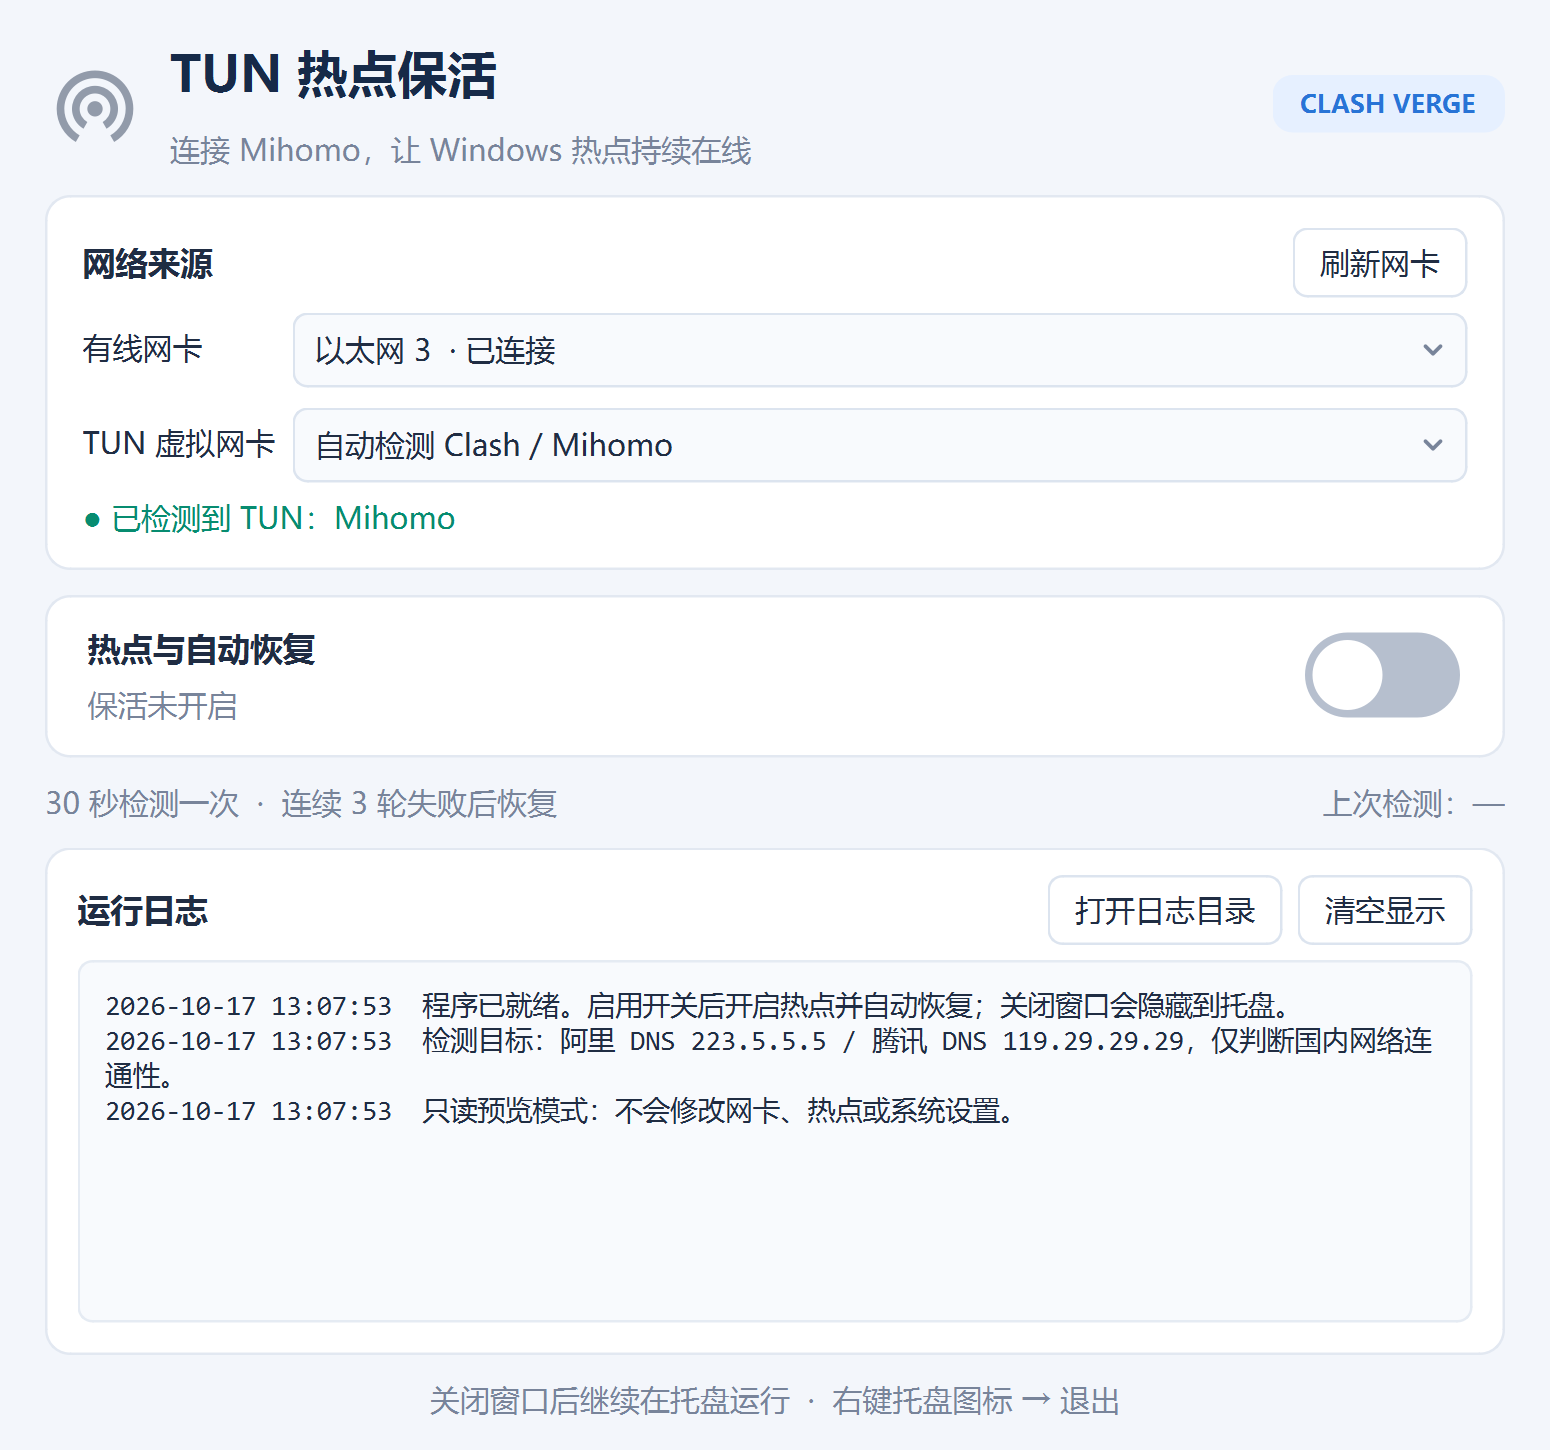
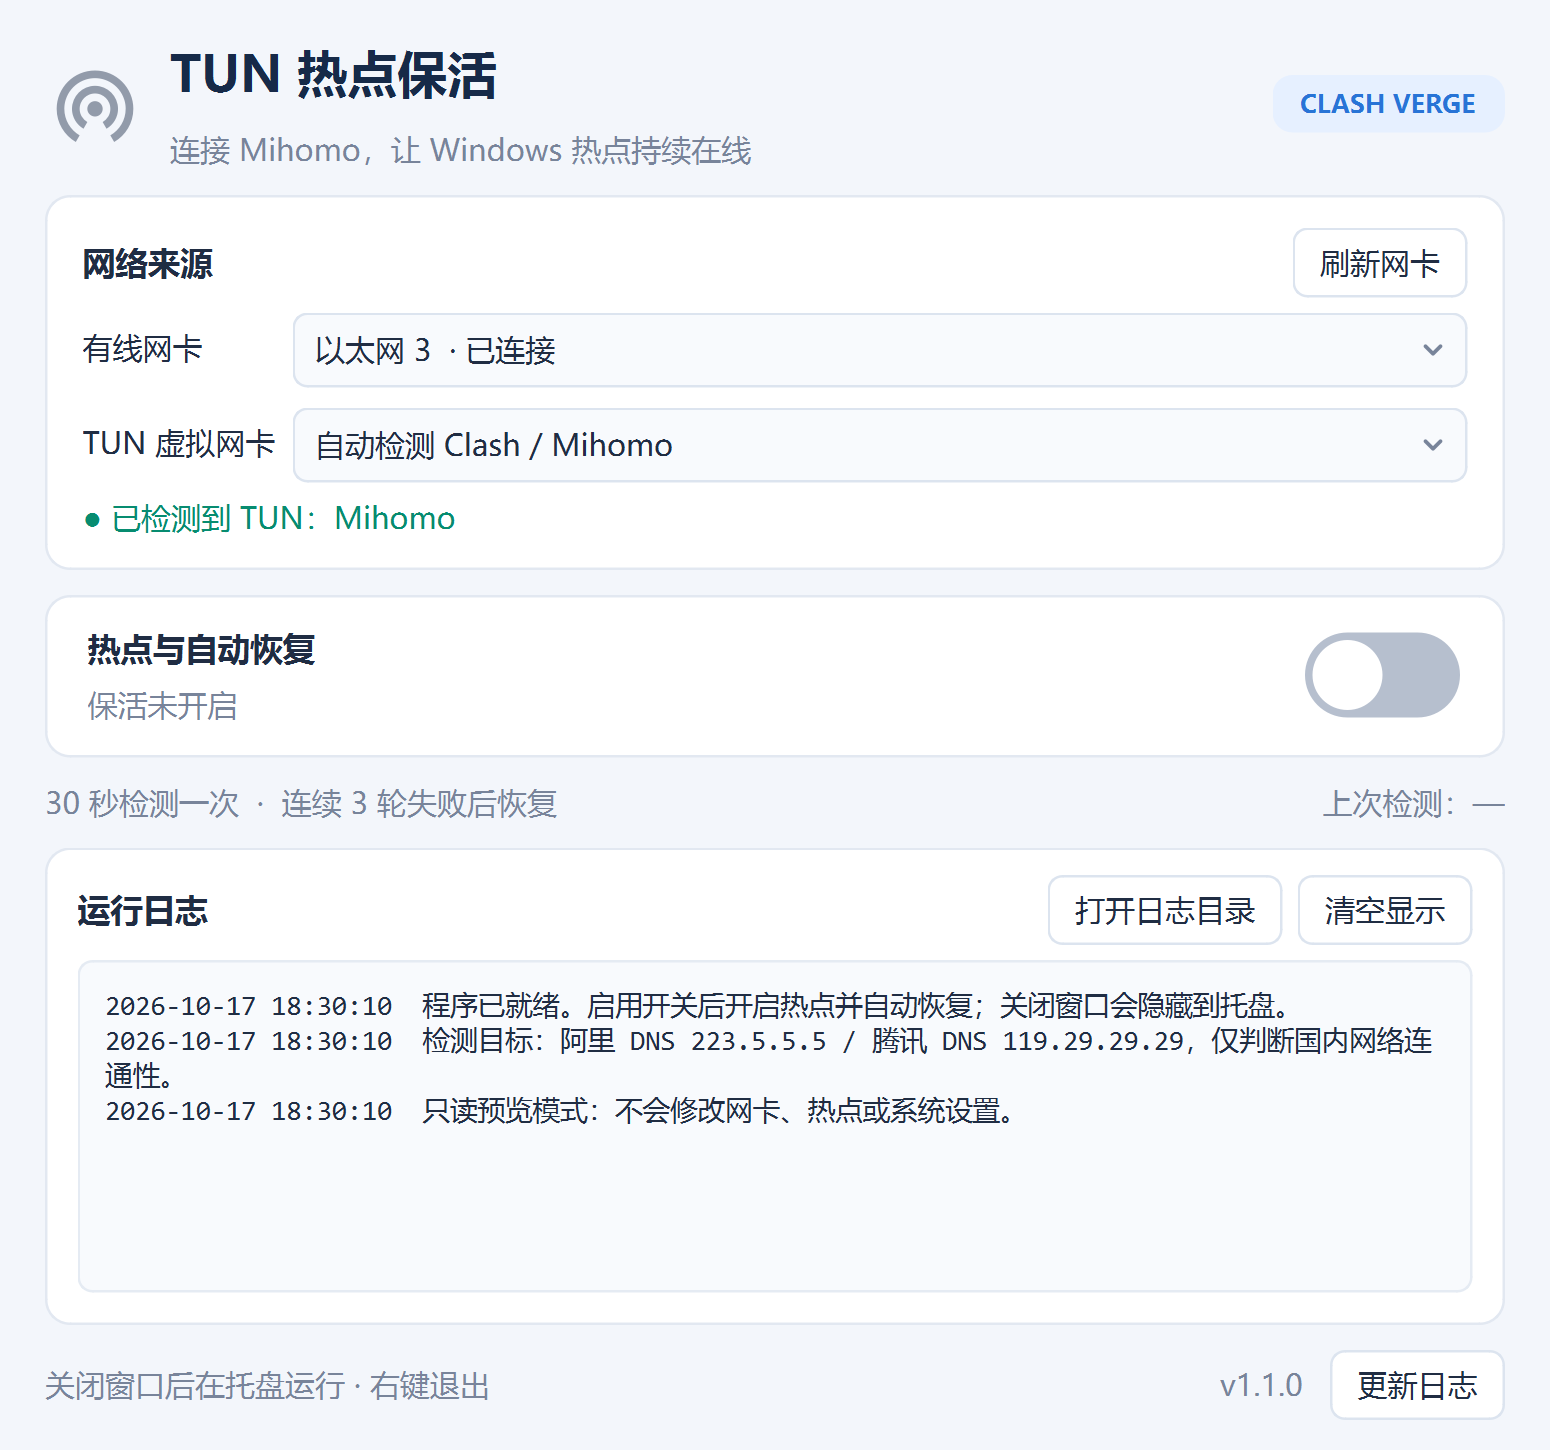
Add embedded changelog viewer and version 1.1.0 release notes

diff --git a/src/mainwindow.cpp b/src/mainwindow.cpp
@@ -9,6 +9,8 @@
 #include <QCursor>
 #include <QDateTime>
 #include <QDesktopServices>
+#include <QDialog>
+#include <QDialogButtonBox>
 #include <QDir>
 #include <QFormLayout>
 #include <QFrame>
@@ -146,12 +148,20 @@ MainWindow::MainWindow(bool preview) : preview_(preview) {
     logs_->setOpenExternalLinks(false);
     logs_->document()->setMaximumBlockCount(1000);
     logLayout->addWidget(logs_); root->addWidget(logCard, 1);
-    auto* footer = new QLabel(QStringLiteral("关闭窗口后继续在托盘运行  ·  右键托盘图标 → 退出"));
-    footer->setObjectName("muted"); footer->setAlignment(Qt::AlignCenter); root->addWidget(footer);
+    auto* footerRow = new QHBoxLayout;
+    auto* footer = new QLabel(QStringLiteral("关闭窗口后在托盘运行 · 右键退出"));
+    footer->setObjectName("muted"); footer->setWordWrap(true);
+    footerRow->addWidget(footer, 1);
+    auto* version = new QLabel("v" + QApplication::applicationVersion());
+    version->setObjectName("muted"); footerRow->addWidget(version);
+    changelogButton_ = new QPushButton(QStringLiteral("更新日志"));
+    connect(changelogButton_, &QPushButton::clicked, this, &MainWindow::showChangelog);
+    footerRow->addWidget(changelogButton_); root->addLayout(footerRow);
 
     tray_ = new QSystemTrayIcon(hotspotIcon(false), this);
     auto* trayMenu = new QMenu(this);
     trayMenu->addAction(QStringLiteral("显示"), this, &MainWindow::showWindow);
+    trayMenu->addAction(QStringLiteral("更新日志"), this, &MainWindow::showChangelog);
     trayMenu->addSeparator();
     trayMenu->addAction(QStringLiteral("退出"), this, &MainWindow::requestExit);
     tray_->setContextMenu(trayMenu);
@@ -306,6 +316,45 @@ void MainWindow::toggleMonitoring(bool enabled) {
 }
 
 void MainWindow::showWindow() { showNormal(); raise(); activateWindow(); }
+
+void MainWindow::showChangelog() {
+    if (!changelogDialog_) {
+        auto* dialog = new QDialog(this);
+        changelogDialog_ = dialog;
+        dialog->setObjectName("changelogDialog");
+        dialog->setAttribute(Qt::WA_DeleteOnClose);
+        dialog->setWindowFlag(Qt::WindowContextHelpButtonHint, false);
+        dialog->setWindowTitle(QStringLiteral("更新日志 · v") + QApplication::applicationVersion());
+        auto* screen = this->screen();
+        const auto available = screen ? screen->availableGeometry() : QRect(0, 0, 1280, 720);
+        const int width = qMax(320, available.width() - 32);
+        const int height = qMax(320, available.height() - 64);
+        dialog->setMinimumSize(qMin(440, width), qMin(320, height));
+        dialog->resize(qMin(560, width), qMin(500, height));
+        auto* layout = new QVBoxLayout(dialog);
+        layout->setContentsMargins(16, 14, 16, 14);
+        layout->addWidget(new QLabel(QStringLiteral("当前版本：v") + QApplication::applicationVersion()));
+        auto* browser = new QTextBrowser(dialog);
+        browser->setObjectName("changelogText");
+        browser->setOpenExternalLinks(false);
+        browser->setStyleSheet("QTextBrowser { font-family: 'Microsoft YaHei UI'; font-size: 12px; }");
+        browser->document()->setDefaultStyleSheet(
+            "h1 { font-size: 18px; } h2 { font-size: 15px; } h3 { font-size: 13px; }"
+            "li { margin-bottom: 4px; }");
+        QFile changelog(QStringLiteral(":/docs/CHANGELOG.md"));
+        if (changelog.open(QIODevice::ReadOnly)) browser->setMarkdown(QString::fromUtf8(changelog.readAll()));
+        else browser->setPlainText(QStringLiteral("无法读取内嵌更新日志。"));
+        layout->addWidget(browser, 1);
+        auto* buttons = new QDialogButtonBox(QDialogButtonBox::Close, dialog);
+        buttons->button(QDialogButtonBox::Close)->setText(QStringLiteral("关闭"));
+        connect(buttons, &QDialogButtonBox::rejected, dialog, &QDialog::reject);
+        layout->addWidget(buttons);
+    }
+    changelogDialog_->showNormal();
+    changelogDialog_->raise();
+    changelogDialog_->activateWindow();
+}
+
 void MainWindow::closeEvent(QCloseEvent* event) {
     event->ignore();
     if (quitting_) return;
@@ -333,11 +382,33 @@ bool MainWindow::smokeTest(const QString& output) {
     result["initialSwitchOff"] = !toggle_->isChecked();
     result["logVisible"] = !logs_->toPlainText().isEmpty();
     result["initialIconGray"] = !healthy_;
+    changelogButton_->click();
+    auto* changelog = changelogDialog_.data();
+    auto* browser = changelog ? changelog->findChild<QTextBrowser*>("changelogText") : nullptr;
+    const auto text = browser ? browser->toPlainText() : QString();
+    result["changelogOpens"] = changelog && changelog->isVisible();
+    result["changelogNonModal"] = changelog && !changelog->isModal() && isEnabled();
+    result["changelogCurrentVersion"] = text.contains(QApplication::applicationVersion());
+    result["changelogHistory"] = text.contains("1.0.0") && text.contains("GUID") && text.contains("250%");
+    changelogButton_->click();
+    result["changelogSingleWindow"] = changelogDialog_.data() == changelog;
+    result["changelogKeepsMainVisible"] = isVisible();
+    if (changelog) {
+        result["changelogRenders"] = changelog->grab().save(output + ".changelog.png");
+        changelog->close();
+    }
+    result["closingChangelogKeepsMainVisible"] = isVisible();
+    QCoreApplication::sendPostedEvents(nullptr, QEvent::DeferredDelete);
     updateStatus(QStringLiteral("测试：热点正常"), true);
     const auto color = windowIcon().pixmap(32).toImage();
     updateStatus(QStringLiteral("测试：国内网络异常"), false);
     result["iconChangesWithInternet"] = color != windowIcon().pixmap(32).toImage();
     close(); result["closeOnlyHides"] = !isVisible();
+    tray_->contextMenu()->actions().at(1)->trigger();
+    result["trayChangelogOpens"] = changelogDialog_ && changelogDialog_->isVisible();
+    result["trayChangelogKeepsMainHidden"] = !isVisible();
+    if (changelogDialog_) changelogDialog_->close();
+    QCoreApplication::sendPostedEvents(nullptr, QEvent::DeferredDelete);
     tray_->activated(QSystemTrayIcon::DoubleClick);
     result["trayDoubleClickRestoresWindow"] = isVisible();
     close();

diff --git a/src/mainwindow.h b/src/mainwindow.h
@@ -1,6 +1,7 @@
 #pragma once
 #include "network.h"
 #include <QMainWindow>
+#include <QPointer>
 #include <QFutureWatcher>
 #include <QFile>
 #include <QSettings>
@@ -12,6 +13,7 @@ class QComboBox;
 class QLabel;
 class QTextBrowser;
 class QPushButton;
+class QDialog;
 class ToggleSwitch;
 class Monitor;
 
@@ -32,11 +34,14 @@ private:
     void appendLog(const QString& message);
     void updateStatus(const QString& message, bool healthy);
     void saveSelection();
+    void showChangelog();
     QComboBox *ethernet_, *tun_;
     QLabel *tunStatus_, *state_, *lastCheck_, *headerIcon_;
     QTextBrowser* logs_;
     ToggleSwitch* toggle_;
     QPushButton* refresh_;
+    QPushButton* changelogButton_;
+    QPointer<QDialog> changelogDialog_;
     QSystemTrayIcon* tray_;
     QFutureWatcher<net::Snapshot> watcher_;
     QTimer refreshTimer_;

diff --git a/src/main.cpp b/src/main.cpp
@@ -58,7 +58,7 @@ int main(int argc, char** argv) {
     QApplication app(argc, argv);
     app.setApplicationName("AutoTunHotspot");
     app.setOrganizationName("AutoTunHotspot");
-    app.setApplicationVersion("1.0.0");
+    app.setApplicationVersion(QString::fromLatin1(AUTOTUNHOTSPOT_VERSION));
     app.setStyle("Fusion");
     QFont uiFont(QStringLiteral("Microsoft YaHei UI"));
     uiFont.setPixelSize(12);

diff --git a/CHANGELOG.md b/CHANGELOG.md
@@ -1,0 +1,38 @@
+# 更新日志
+
+## 1.1.0 · 2026-10-17
+
+### 新增
+
+- 主窗口右下角增加“更新日志”按钮，同时显示当前版本号。
+- 托盘菜单增加“更新日志”入口，可在后台运行时直接查看。
+- 使用独立、可滚动和复制文字的窗口展示更新记录，查看时不暂停热点监控。
+- 更新日志内嵌到 EXE，离线可查看；源码与安装目录同时保留本文件。
+
+### 修复
+
+- 修复物理网卡 GUID 匹配错误：PowerShell 返回带大括号的 GUID 字符串时，旧比较条件会误判网卡不存在。现在统一解析为 GUID 再比较，并验证物理网卡及唯一匹配。
+- 修复网卡重启失败时日志显示大量 CLIXML 的问题，关闭 PowerShell 进度输出，以 UTF-8 纯文本显示错误信息。
+- 修复高 DPI 非整数缩放取整造成的额外放大：系统为 250% 时按实际比例显示，避免按 300% 渲染。
+
+### 改进
+
+- 将默认窗口从 760×760 调整为约 620×580 逻辑像素，缩小文字、开关和留白，并根据屏幕可用空间限制初始尺寸。
+- 构建产物统一输出到 `bin/<平台>/<配置>/`，保留 Debug、Release 分目录。
+- 完善 README、界面截图和 Git 忽略规则，构建目录、运行数据和日志不提交到源码仓库。
+- 补充 PowerShell 5.1 子进程回归测试，覆盖不同 GUID 格式、无匹配、重复匹配和中文错误输出，测试不操作真实网卡。
+
+## 1.0.0 · 2026-10-17
+
+### 首个版本
+
+- 使用 C++17、Qt 5.15 与 C++/WinRT 实现 Windows 桌面程序。
+- 自动选择物理有线网卡，检测 Clash Verge / Mihomo TUN，支持手动选择与记忆网卡。
+- 以 TUN 为共享上游开启 Windows 移动热点，沿用系统热点名称和密码。
+- 每轮检查后等待 30 秒继续监测，连续 3 轮国内连通性检测失败后恢复有线网卡和热点。
+- 仅热点关闭时尝试重新开启；TUN 缺失时等待恢复；恢复失败后按 60 / 120 / 240 / 300 秒退避重试。
+- 尝试关闭系统的无客户端连接自动关闭热点超时，停止管理时还原本次更改的设置。
+- 支持蓝灰开关、实际状态提示、彩色／灰色热点图标、运行日志及日志轮转。
+- 关闭主窗口后隐藏到托盘；双击或右键“显示”恢复，右键“退出”结束程序。
+- 提供管理员提权、单实例运行、只读诊断与界面预览。
+- 使用工程根目录的 CMakeLists.txt 和 CMakePresets.json 配置、编译、测试和打包。

diff --git a/README.md b/README.md
@@ -4,6 +4,8 @@
 
 使用 **C++17 + Qt 5.15 + C++/WinRT** 实现，支持系统托盘、实时日志和高 DPI 显示。
 
+当前版本：**1.1.0**。版本记录见 [更新日志](CHANGELOG.md)，也可在程序右下角或托盘菜单中点击“更新日志”查看。
+
 <img src="docs/images/main-window.png" alt="AutoTunHotspot 主界面：网卡选择、热点开关与运行日志" width="620" />
 
 ## 功能
@@ -15,6 +17,7 @@
 - **托盘运行**：窗口 × 隐藏到托盘；双击图标或右键“显示”恢复；右键“退出”结束程序。
 - **状态图标**：热点开启且国内网络正常时为蓝绿彩色，其余状态为灰色。
 - **运行日志**：显示带时间的日志，并在磁盘自动轮转，适合长期运行。
+- **更新日志**：通过独立窗口离线查看版本记录，支持滚动和复制，不暂停后台监控。
 - **高 DPI 支持**：按系统实际缩放比例渲染，支持 125%、150%、200%、250% 等缩放。
 
 共享链路：
@@ -154,6 +157,7 @@ AutoTunHotspot/
 │   └── toggleswitch.*              # 自定义蓝灰开关
 ├── tests/                          # 恢复策略与 PowerShell 子进程回归测试
 ├── tools/                          # 编译时 ICO 生成工具
+├── CHANGELOG.md                    # 内嵌到程序的版本更新记录
 ├── CMakeLists.txt
 ├── CMakePresets.json
 └── qt.conf
